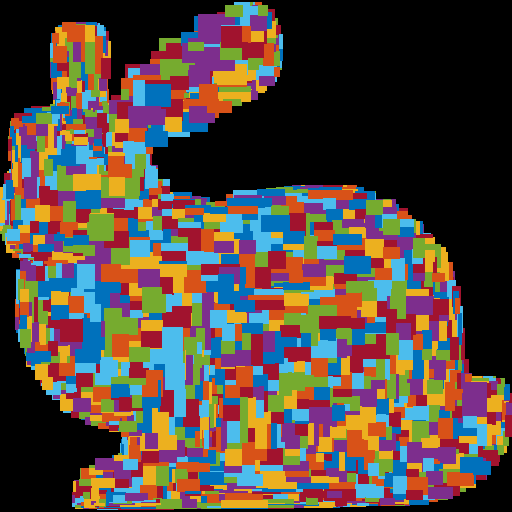
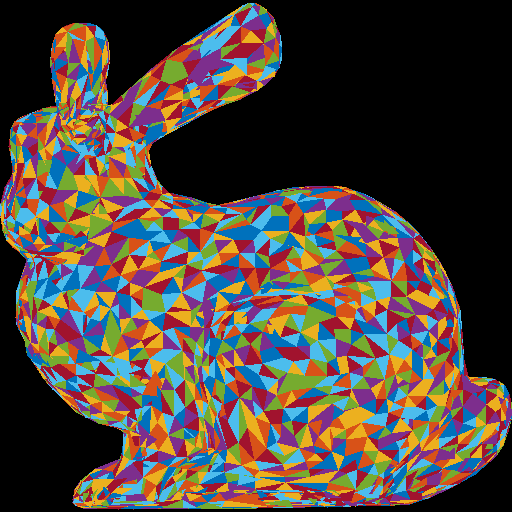
task 2 completed

diff --git a/A1/src/utils.h b/A1/src/utils.h
@@ -1,0 +1,99 @@
+#ifndef UTILS_H    // To make sure you don't declare the function more than once by including the header multiple times.
+#define UTILS_H
+
+#include "BoundingBox.h"
+#include "Triangle.h"
+#include "Image.h"
+#include <vector>
+
+double RANDOM_COLORS[7][3] = {
+	{0.0000,    0.4470,    0.7410},
+	{0.8500,    0.3250,    0.0980},
+	{0.9290,    0.6940,    0.1250},
+	{0.4940,    0.1840,    0.5560},
+	{0.4660,    0.6740,    0.1880},
+	{0.3010,    0.7450,    0.9330},
+	{0.6350,    0.0780,    0.1840},
+};
+
+std::vector<float> inplace_linear_bounding_box_search(const std::vector<float>& posBuf){
+    std::vector<float> box;
+    box.push_back(INFINITY);
+    box.push_back(INFINITY);
+    box.push_back(-1 * INFINITY);
+    box.push_back(-1 * INFINITY);
+
+    for (int i = 0; i < posBuf.size(); i += 3){
+        box[0] = std::min( posBuf[i] , box[0]);
+        box[1] = std::min( posBuf[i+1], box[1]);
+
+        box[2] = std::max( posBuf[i] , box[2]);
+        box[3] = std::max( posBuf[i+1], box[3]);
+    }
+    return box;
+}
+
+float translation(int n, float s, float t0, float t1){
+    return (n/2.0) - (s * ((t1 + t0) / 2.0));
+}
+
+float scale(int height, int width, std::vector<float>& box){
+	return std::min((float) width / (float) (box[2] - box[0]), (float) height / (float) (box[3] - box[1]));
+}
+
+void extract_triangles(std::vector<Triangle>& triangles, std::vector<float>& posBuf, float s, float tx, float ty){
+    for (int i = 0; i < posBuf.size(); i += 9){
+
+		std::vector<int> v1 = {(int)( (s * posBuf[i]) + tx), (int) ((s * posBuf[i+1]) + ty),(int) posBuf[i+2]};
+		std::vector<int> v2 = {(int)( (s * posBuf[i+3]) + tx),(int) ((s * posBuf[i+4]) + ty), (int) posBuf[i+5]};
+		std::vector<int> v3 = {(int)( (s * posBuf[i+6]) + tx),(int) ((s * posBuf[i+7]) + ty), (int) posBuf[i+8]};
+
+		triangles.push_back( Triangle(v1,v2,v3) );
+	}
+}
+
+void task1(std::vector<Triangle> triangles, float s, float tx, float ty, std::shared_ptr<Image> image){
+    int r = 0;
+	for (Triangle& tri : triangles){
+
+		for(int y= tri.bb.lower.y; y < tri.bb.upper.y; ++y){
+			for(int x = tri.bb.lower.x; x < tri.bb.upper.x; ++x){
+				image->setPixel(x,y,RANDOM_COLORS[r][0]*255 , RANDOM_COLORS[r][1]*255 , RANDOM_COLORS[r][2]*255);
+			}
+		}
+		r = (r + 1) % 7;
+	}
+}
+
+double area_triangle2d(int x1,int y1, int x2,int y2, int x3,int y3) { return (x1 * (y2-y3) + x2 * (y3-y1) + x3 * (y1-y2)) / 2.0;}
+
+std::vector<double> bary_coords(int x,int y, Triangle& tri){
+	double area = area_triangle2d(tri.v1.position.x, tri.v1.position.y, tri.v2.position.x, tri.v2.position.y,tri.v3.position.x, tri.v3.position.y); 
+    std::vector<double> areas;
+    areas.push_back(area_triangle2d(x,y, tri.v1.position.x, tri.v1.position.y, tri.v2.position.x, tri.v2.position.y) / area);
+    areas.push_back(area_triangle2d(x,y, tri.v2.position.x, tri.v2.position.y, tri.v3.position.x, tri.v3.position.y) / area);
+    areas.push_back(area_triangle2d(x,y, tri.v3.position.x, tri.v3.position.y, tri.v1.position.x, tri.v1.position.y) / area);
+	
+	return areas;
+}
+
+void task2(std::vector<Triangle>& triangles, float s, float tx, float ty, std::shared_ptr<Image> image){
+    int r = 0;
+	for (Triangle& tri : triangles){
+
+		for(int y= tri.bb.lower.y; y < tri.bb.upper.y; ++y){
+			for(int x = tri.bb.lower.x; x < tri.bb.upper.x; ++x){
+                std::vector<double> bary = bary_coords(x,y, tri);
+                if (bary[0] >= 0.0 && bary[1] >= 0.0 && bary[2] >= 0.0){
+                    
+				    image->setPixel(x,y,RANDOM_COLORS[r][0]*255 , RANDOM_COLORS[r][1]*255 , RANDOM_COLORS[r][2]*255);
+                }
+			}
+		}
+		r = (r + 1) % 7;
+	}
+
+}
+
+
+#endif

diff --git a/A1/src/main.cpp b/A1/src/main.cpp
@@ -6,25 +6,28 @@
 
 #include "Image.h"
 #include "Triangle.h"
+#include "utils.h"
 
 // This allows you to skip the `std::` in front of C++ standard library
 // functions. You can also say `using std::cout` to be more selective.
 // You should never do this in a header file.
 using namespace std;
 
-double RANDOM_COLORS[7][3] = {
-	{0.0000,    0.4470,    0.7410},
-	{0.8500,    0.3250,    0.0980},
-	{0.9290,    0.6940,    0.1250},
-	{0.4940,    0.1840,    0.5560},
-	{0.4660,    0.6740,    0.1880},
-	{0.3010,    0.7450,    0.9330},
-	{0.6350,    0.0780,    0.1840},
-};
+// double RANDOM_COLORS[7][3] = {
+// 	{0.0000,    0.4470,    0.7410},
+// 	{0.8500,    0.3250,    0.0980},
+// 	{0.9290,    0.6940,    0.1250},
+// 	{0.4940,    0.1840,    0.5560},
+// 	{0.4660,    0.6740,    0.1880},
+// 	{0.3010,    0.7450,    0.9330},
+// 	{0.6350,    0.0780,    0.1840},
+// };
 
 
 int main(int argc, char **argv)
 {
+	// GIVEN STARTER CODE
+	//##############################################################################
 	if(argc < 2) {
 		cout << "Usage: A1 meshfile" << endl;
 		return 0;
@@ -83,51 +86,29 @@ int main(int argc, char **argv)
 		}
 	}
 	cout << "Number of vertices: " << posBuf.size()/3 << endl;
+	//##############################################################################
+
 	auto image = make_shared<Image>(width, height);
 
-	BoundingBox net_size;
-	for (int i = 0; i < posBuf.size(); i += 3){
-		net_size.lower.x = min( posBuf[i] , net_size.lower.x);
-		net_size.lower.y = min( posBuf[i+1], net_size.lower.y);
+	vector<float> box = inplace_linear_bounding_box_search(posBuf);
 
-		net_size.upper.x = max( posBuf[i] , net_size.upper.x);
-		net_size.upper.y = max( posBuf[i+1], net_size.upper.y);
-	}
-
-	float dx = net_size.upper.x - net_size.lower.x;
-	float dy = net_size.upper.y - net_size.lower.y;
-	float s = min((float)width/(float) dx, (float)height/(float) dy);
-	float tx = (width/2.0) - (s * ((net_size.upper.x + net_size.lower.x) / 2.0));
-	float ty = (height/2.0) - (s * ((net_size.upper.y + net_size.lower.y) / 2.0));
-
+	float s = scale(height, width, box);
+	float tx = translation(width, s, box[0]  ,box[2]);
+	float ty = translation(height, s, box[1]  ,box[3]);
 
 	vector<Triangle> triangles;
-	for (int i = 0; i < posBuf.size(); i += 9){
 
-		vector<float> v1 = {posBuf[i], posBuf[i+1], posBuf[i+2]};
-		vector<float> v2 = { posBuf[i+3],  posBuf[i+4],  posBuf[i+5]};
-		vector<float> v3 = { posBuf[i+6],  posBuf[i+7],  posBuf[i+8]};
+	extract_triangles(triangles, posBuf, s, tx, ty);
 
-		triangles.push_back( Triangle(v1,v2,v3) );
+	switch (task) {
+		case 1: 
+			task1(triangles, s, tx, ty, image);
+			break;
+		case 2:
+			task2(triangles, s, tx, ty, image);
+			break;
 	}
 
-
-	int r = 0;
-	for (Triangle& tri : triangles){
-
-		tri.bb.lower.y = (s * tri.bb.lower.y) + ty;
-		tri.bb.lower.x = (s * tri.bb.lower.x) + tx;
-		tri.bb.upper.x = (s * tri.bb.upper.x) + tx;
-		tri.bb.upper.y = (s * tri.bb.upper.y) + ty;
-
-		for(int y= tri.bb.lower.y; y < tri.bb.upper.y; ++y){
-			for(int x = tri.bb.lower.x; x < tri.bb.upper.x; ++x){
-				image->setPixel(x,y,RANDOM_COLORS[r][0]*255 , RANDOM_COLORS[r][1]*255 , RANDOM_COLORS[r][2]*255);
-			}
-		}
-		r = (r + 1) % 7;
-	}
-	
 	image->writeToFile(filename);
 	return 0;
 }

diff --git a/A1/src/Triangle.h b/A1/src/Triangle.h
@@ -8,8 +8,8 @@
 
 class Triangle {
     public:
-        Triangle(std::vector<float>& v1, std::vector<float>& v2, std::vector<float>& v3, std::vector<float>& c1, std::vector<float>& c2, std::vector<float>& c3): v1(v1,c1),v2(v2,c2),v3(v3,c3), bb(v1,v2,v3) {};
-        Triangle(std::vector<float>& v1,std::vector<float>& v2,std::vector<float>& v3): v1(v1),v2(v2),v3(v3), bb(v1,v2,v3) {};
+        Triangle(std::vector<int>& v1, std::vector<int>& v2, std::vector<int>& v3, std::vector<int>& c1, std::vector<int>& c2, std::vector<int>& c3): v1(v1,c1),v2(v2,c2),v3(v3,c3), bb(v1,v2,v3) {};
+        Triangle(std::vector<int>& v1,std::vector<int>& v2,std::vector<int>& v3): v1(v1),v2(v2),v3(v3), bb(v1,v2,v3) {};
         Vertex v1;
         Vertex v2;
         Vertex v3;

diff --git a/A1/src/BoundingBox.h b/A1/src/BoundingBox.h
@@ -6,7 +6,7 @@
 
 struct BoundingBox {
     BoundingBox(): lower(INFINITY,INFINITY , INFINITY), upper(-1.0 * INFINITY, -1.0 * INFINITY, -1.0 * INFINITY) {};
-    BoundingBox(std::vector<float>& v1,std::vector<float>& v2,std::vector<float>& v3){
+    BoundingBox(std::vector<int>& v1,std::vector<int>& v2,std::vector<int>& v3){
         lower.x = v1.size() > 0 ? std::min(v1[0], std::min(v2[0], v3[0])) : 0;
         lower.y = v1.size() > 1 ? std::min(v1[1], std::min(v2[1], v3[1])) : 0;
         lower.z = v1.size() > 2 ? std::min(v1[2], std::min(v2[2], v3[2])) : 0;

diff --git a/A1/src/Position.h b/A1/src/Position.h
@@ -4,18 +4,18 @@
 #include <vector>
 
 struct Position {
-    float x;
-    float y;
-    float z;
+    int x;
+    int y;
+    int z;
     Position(): x(0.0), y(0.0), z(0.0) {}
 
-    Position(std::vector<float>& pos){
+    Position(std::vector<int>& pos){
         x = pos.size() > 0 ? pos[0] : 0.0;
         y = pos.size() > 1 ? pos[1] : 0.0;
         z = pos.size() > 2 ? pos[2] : 0.0;
     }
     
-    Position(float x, float y, float z): x(x), y(y), z(z) {}
+    Position(int x, int y, int z): x(x), y(y), z(z) {}
 };
 
 #endif

diff --git a/A1/src/Color.h b/A1/src/Color.h
@@ -5,17 +5,17 @@
 #include <assert.h>
 
 struct Color {
-    float r;
-    float g;
-    float b;
+    int r;
+    int g;
+    int b;
     Color(): r(0), g(0), b(0) {}
-    Color(std::vector<float>& color){
+    Color(std::vector<int>& color){
         assert(color.size() == 3);
         r = color[0];
         g = color[1];
         b = color[3];
     }
-    Color(float r, float g, float b): r(r), g(g), b(b) {}
+    Color(int r, int g, int b): r(r), g(g), b(b) {}
 };
 
 #endif

diff --git a/A1/src/Vertex.h b/A1/src/Vertex.h
@@ -8,8 +8,8 @@
 struct Vertex {
     Position position;
     Color color;
-    Vertex(std::vector<float>& pos, std::vector<float>& color):position(pos), color(color) {}
-    Vertex(std::vector<float>& pos):position(pos), color() {}
+    Vertex(std::vector<int>& pos, std::vector<int>& color):position(pos), color(color) {}
+    Vertex(std::vector<int>& pos):position(pos), color() {}
 };
 
 #endif
